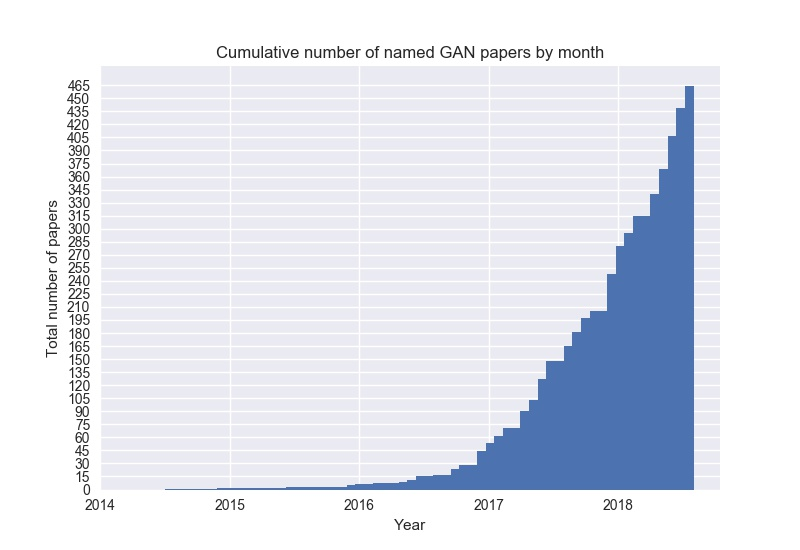
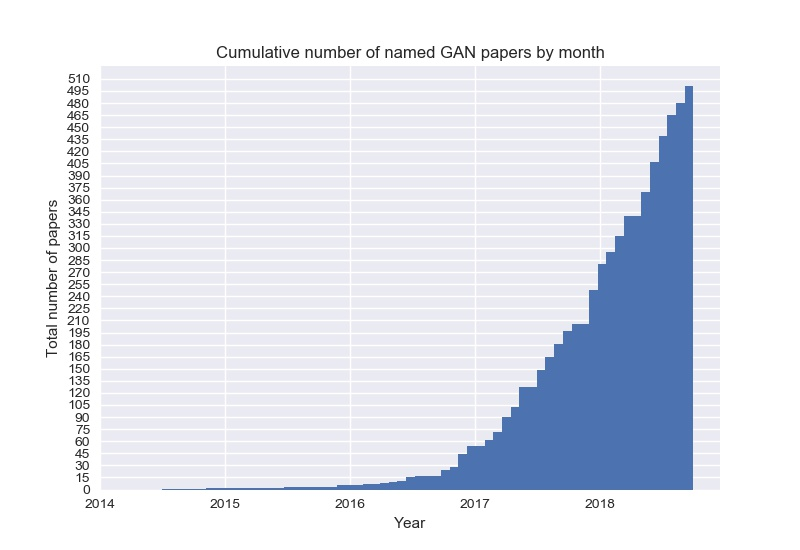
Update GANs till Sept end

diff --git a/README.md b/README.md
@@ -22,15 +22,18 @@ Check out [Deep Hunt](https://deephunt.in) - my weekly AI newsletter for this re
 * AC-GAN - [Conditional Image Synthesis With Auxiliary Classifier GANs](https://arxiv.org/abs/1610.09585) 
 * acGAN - [Face Aging With Conditional Generative Adversarial Networks](https://arxiv.org/abs/1702.01983) 
 * ACGAN - [Coverless Information Hiding Based on Generative adversarial networks](https://arxiv.org/abs/1712.06951) 
+* acGAN - [On-line Adaptative Curriculum Learning for GANs](https://arxiv.org/abs/1808.00020) 
 * ACtuAL - [ACtuAL: Actor-Critic Under Adversarial Learning](https://arxiv.org/abs/1711.04755) 
 * AdaGAN - [AdaGAN: Boosting Generative Models](https://arxiv.org/abs/1701.02386v1) 
 * Adaptive GAN - [Customizing an Adversarial Example Generator with Class-Conditional GANs](https://arxiv.org/abs/1806.10496) 
 * AdvEntuRe - [AdvEntuRe: Adversarial Training for Textual Entailment with Knowledge-Guided Examples](https://arxiv.org/abs/1805.04680) 
 * AdvGAN - [Generating adversarial examples with adversarial networks](https://arxiv.org/abs/1801.02610) 
 * AE-GAN - [AE-GAN: adversarial eliminating with GAN](https://arxiv.org/abs/1707.05474) 
+* AE-OT - [Latent Space Optimal Transport for Generative Models](https://arxiv.org/abs/1809.05964) 
 * AEGAN - [Learning Inverse Mapping by Autoencoder based Generative Adversarial Nets](https://arxiv.org/abs/1703.10094) 
 * AF-DCGAN - [AF-DCGAN: Amplitude Feature Deep Convolutional GAN for Fingerprint Construction in Indoor Localization System](https://arxiv.org/abs/1804.05347) 
 * AffGAN - [Amortised MAP Inference for Image Super-resolution](https://arxiv.org/abs/1610.04490) 
+* AIM - [Generating Informative and Diverse Conversational Responses via Adversarial Information Maximization](https://arxiv.org/abs/1809.05972) 
 * AL-CGAN - [Learning to Generate Images of Outdoor Scenes from Attributes and Semantic Layouts](https://arxiv.org/abs/1612.00215) 
 * ALI - [Adversarially Learned Inference](https://arxiv.org/abs/1606.00704) ([github](https://github.com/IshmaelBelghazi/ALI))
 * AlignGAN - [AlignGAN: Learning to Align Cross-Domain Images with Conditional Generative Adversarial Networks](https://arxiv.org/abs/1707.01400) 
@@ -60,14 +63,19 @@ Check out [Deep Hunt](https://deephunt.in) - my weekly AI newsletter for this re
 * BCGAN - [Bidirectional Conditional Generative Adversarial networks](https://arxiv.org/abs/1711.07461) 
 * BEAM - [Boltzmann Encoded Adversarial Machines](https://arxiv.org/abs/1804.08682) 
 * BEGAN - [BEGAN: Boundary Equilibrium Generative Adversarial Networks](https://arxiv.org/abs/1703.10717) 
+* BEGAN-CS - [Escaping from Collapsing Modes in a Constrained Space](https://arxiv.org/abs/1808.07258) 
+* Bellman GAN - [Distributional Multivariate Policy Evaluation and Exploration with the Bellman GAN](https://arxiv.org/abs/1808.01960) 
 * BGAN - [Binary Generative Adversarial Networks for Image Retrieval](https://arxiv.org/abs/1708.04150) ([github](https://github.com/htconquer/BGAN))
+* Bi-GAN - [Autonomously and Simultaneously Refining Deep Neural Network Parameters by a Bi-Generative Adversarial Network Aided Genetic Algorithm](https://arxiv.org/abs/1809.10244) 
 * BicycleGAN - [Toward Multimodal Image-to-Image Translation](https://arxiv.org/abs/1711.11586) ([github](https://github.com/junyanz/BicycleGAN))
 * BiGAN - [Adversarial Feature Learning](https://arxiv.org/abs/1605.09782v7) 
 * BinGAN - [BinGAN: Learning Compact Binary Descriptors with a Regularized GAN](https://arxiv.org/abs/1806.06778) 
 * BourGAN - [BourGAN: Generative Networks with Metric Embeddings](https://arxiv.org/abs/1805.07674) 
 * BranchGAN - [Branched Generative Adversarial Networks for Multi-Scale Image Manifold Learning](https://arxiv.org/abs/1803.08467) 
 * BRE - [Improving GAN Training via Binarized Representation Entropy (BRE) Regularization](https://arxiv.org/abs/1805.03644) ([github](https://github.com/BorealisAI/bre-gan))
+* BridgeGAN - [Generative Adversarial Frontal View to Bird View Synthesis](https://arxiv.org/abs/1808.00327) 
 * BS-GAN - [Boundary-Seeking Generative Adversarial Networks](https://arxiv.org/abs/1702.08431v1) 
+* BubGAN - [BubGAN: Bubble Generative Adversarial Networks for Synthesizing Realistic Bubbly Flow Images](https://arxiv.org/abs/1809.02266) 
 * BWGAN - [Banach Wasserstein GAN](https://arxiv.org/abs/1806.06621) 
 * C-GAN  - [Face Aging with Contextual Generative Adversarial Nets ](https://arxiv.org/abs/1802.00237 ) 
 * C-RNN-GAN - [C-RNN-GAN: Continuous recurrent neural networks with adversarial training](https://arxiv.org/abs/1611.09904) ([github](https://github.com/olofmogren/c-rnn-gan/))
@@ -88,7 +96,9 @@ Check out [Deep Hunt](https://deephunt.in) - my weekly AI newsletter for this re
 * CGAN - [Controllable Generative Adversarial Network](https://arxiv.org/abs/1708.00598) 
 * Chekhov GAN - [An Online Learning Approach to Generative Adversarial Networks](https://arxiv.org/abs/1706.03269) 
 * ciGAN - [Conditional Infilling GANs for Data Augmentation in Mammogram Classification](https://arxiv.org/abs/1807.08093) 
+* CinCGAN - [Unsupervised Image Super-Resolution using Cycle-in-Cycle Generative Adversarial Networks](https://arxiv.org/abs/1809.00437) 
 * CipherGAN - [Unsupervised Cipher Cracking Using Discrete GANs](https://arxiv.org/abs/1801.04883) 
+* ClusterGAN - [ClusterGAN : Latent Space Clustering in Generative Adversarial Networks](https://arxiv.org/abs/1809.03627) 
 * CM-GAN - [CM-GANs: Cross-modal Generative Adversarial Networks for Common Representation Learning](https://arxiv.org/abs/1710.05106) 
 * CoAtt-GAN - [Are You Talking to Me? Reasoned Visual Dialog Generation through Adversarial Learning](https://arxiv.org/abs/1711.07613) 
 * CoGAN - [Coupled Generative Adversarial Networks](https://arxiv.org/abs/1606.07536v2) 
@@ -115,12 +125,14 @@ Check out [Deep Hunt](https://deephunt.in) - my weekly AI newsletter for this re
 * D2GAN - [Dual Discriminator Generative Adversarial Nets](http://arxiv.org/abs/1709.03831) 
 * D2IA-GAN - [Tagging like Humans: Diverse and Distinct Image Annotation](https://arxiv.org/abs/1804.00113) 
 * DA-GAN  - [DA-GAN: Instance-level Image Translation by Deep Attention Generative Adversarial Networks (with Supplementary Materials)](http://arxiv.org/abs/1802.06454) 
+* DADA - [DADA: Deep Adversarial Data Augmentation for Extremely Low Data Regime Classification](https://arxiv.org/abs/1809.00981) 
 * DAGAN - [Data Augmentation Generative Adversarial Networks](https://arxiv.org/abs/1711.04340) 
 * DAN - [Distributional Adversarial Networks](https://arxiv.org/abs/1706.09549) 
 * DBLRGAN - [Adversarial Spatio-Temporal Learning for Video Deblurring](https://arxiv.org/abs/1804.00533) 
 * DCGAN - [Unsupervised Representation Learning with Deep Convolutional Generative Adversarial Networks](https://arxiv.org/abs/1511.06434) ([github](https://github.com/Newmu/dcgan_code))
 * DE-GAN - [Generative Adversarial Networks with Decoder-Encoder Output Noise](https://arxiv.org/abs/1807.03923) 
 * DeblurGAN - [DeblurGAN: Blind Motion Deblurring Using Conditional Adversarial Networks](https://arxiv.org/abs/1711.07064) ([github](https://github.com/KupynOrest/DeblurGAN))
+* DeepFD - [Learning to Detect Fake Face Images in the Wild](https://arxiv.org/abs/1809.08754) 
 * Defense-GAN - [Defense-GAN: Protecting Classifiers Against Adversarial Attacks Using Generative Models ](https://arxiv.org/abs/1805.06605 ) ([github](https://github.com/kabkabm/defensegan))
 * Defo-Net - [Defo-Net: Learning Body Deformation using Generative Adversarial Networks](https://arxiv.org/abs/1804.05928) 
 * DeliGAN - [DeLiGAN : Generative Adversarial Networks for Diverse and Limited Data](https://arxiv.org/abs/1706.02071) ([github](https://github.com/val-iisc/deligan))
@@ -131,6 +143,7 @@ Check out [Deep Hunt](https://deephunt.in) - my weekly AI newsletter for this re
 * DM-GAN - [Dual Motion GAN for Future-Flow Embedded Video Prediction](https://arxiv.org/abs/1708.00284) 
 * DMGAN - [Disconnected Manifold Learning for Generative Adversarial Networks](https://arxiv.org/abs/1806.00880) 
 * DNA-GAN - [DNA-GAN: Learning Disentangled Representations from Multi-Attribute Images](https://arxiv.org/abs/1711.05415) 
+* DOPING - [DOPING: Generative Data Augmentation for Unsupervised Anomaly Detection with GAN](https://arxiv.org/abs/1808.07632) 
 * dp-GAN - [Differentially Private Releasing via Deep Generative Model](https://arxiv.org/abs/1801.01594) 
 * DP-GAN - [DP-GAN: Diversity-Promoting Generative Adversarial Network for Generating Informative and Diversified Text ](https://arxiv.org/abs/1802.01345 ) 
 * DPGAN  - [Differentially Private Generative Adversarial Network ](http://arxiv.org/abs/1802.06739) 
@@ -157,6 +170,7 @@ Check out [Deep Hunt](https://deephunt.in) - my weekly AI newsletter for this re
 * EL-GAN - [EL-GAN: Embedding Loss Driven Generative Adversarial Networks for Lane Detection](https://arxiv.org/abs/1806.05525) 
 * ELEGANT - [ELEGANT: Exchanging Latent Encodings with GAN for Transferring Multiple Face Attributes](https://arxiv.org/abs/1803.10562) 
 * EnergyWGAN - [Energy-relaxed Wassertein GANs (EnergyWGAN): Towards More Stable and High Resolution Image Generation](https://arxiv.org/abs/1712.01026) 
+* ESRGAN - [ESRGAN: Enhanced Super-Resolution Generative Adversarial Networks](https://arxiv.org/abs/1809.00219) 
 * ExGAN - [Eye In-Painting with Exemplar Generative Adversarial Networks](https://arxiv.org/abs/1712.03999) 
 * ExposureGAN - [Exposure: A White-Box Photo Post-Processing Framework](https://arxiv.org/abs/1709.09602) ([github](https://github.com/yuanming-hu/exposure))
 * ExprGAN - [ExprGAN: Facial Expression Editing with Controllable Expression Intensity](https://arxiv.org/abs/1709.03842) 
@@ -190,7 +204,9 @@ Check out [Deep Hunt](https://deephunt.in) - my weekly AI newsletter for this re
 * GAIN  - [GAIN: Missing Data Imputation using Generative Adversarial Nets](https://arxiv.org/abs/1806.02920) 
 * GAMN - [Generative Adversarial Mapping Networks](https://arxiv.org/abs/1709.09820) 
 * GAN - [Generative Adversarial Networks](https://arxiv.org/abs/1406.2661) ([github](https://github.com/goodfeli/adversarial))
+* GAN Lab - [GAN Lab: Understanding Complex Deep Generative Models using Interactive Visual Experimentation](https://arxiv.org/abs/1809.01587) 
 * GAN Q-learning - [GAN Q-learning](https://arxiv.org/abs/1805.04874) 
+* GAN-AD - [Anomaly Detection with Generative Adversarial Networks for Multivariate Time Series](https://arxiv.org/abs/1809.04758) 
 * GAN-ATV - [A Novel Approach to Artistic Textual Visualization via GAN](https://arxiv.org/abs/1710.10553) 
 * GAN-CLS - [Generative Adversarial Text to Image Synthesis](https://arxiv.org/abs/1605.05396) ([github](https://github.com/reedscot/icml2016))
 * GAN-RS - [Towards Qualitative Advancement of Underwater Machine Vision with Generative Adversarial Networks](https://arxiv.org/abs/1712.00736) 
@@ -204,15 +220,19 @@ Check out [Deep Hunt](https://deephunt.in) - my weekly AI newsletter for this re
 * GANG - [GANGs: Generative Adversarial Network Games](https://arxiv.org/abs/1712.00679) 
 * GANG - [Beyond Local Nash Equilibria for Adversarial Networks](https://arxiv.org/abs/1806.07268) 
 * GANosaic - [GANosaic: Mosaic Creation with Generative Texture Manifolds](https://arxiv.org/abs/1712.00269) 
+* GANVO - [GANVO: Unsupervised Deep Monocular Visual Odometry and Depth Estimation with Generative Adversarial Networks](https://arxiv.org/abs/1809.05786) 
 * GAP - [Context-Aware Generative Adversarial Privacy](https://arxiv.org/abs/1710.09549) 
 * GAP - [Generative Adversarial Privacy](https://arxiv.org/abs/1807.05306) 
 * GATS - [Sample-Efficient Deep RL with Generative Adversarial Tree Search](https://arxiv.org/abs/1806.05780) 
 * GAWWN - [Learning What and Where to Draw](https://arxiv.org/abs/1610.02454) ([github](https://github.com/reedscot/nips2016))
 * GC-GAN - [Geometry-Contrastive Generative Adversarial Network for Facial Expression Synthesis](https://arxiv.org/abs/1802.01822 ) 
+* GcGAN - [Geometry-Consistent Adversarial Networks for One-Sided Unsupervised Domain Mapping](https://arxiv.org/abs/1809.05852) 
 * GeneGAN - [GeneGAN: Learning Object Transfiguration and Attribute Subspace from Unpaired Data](https://arxiv.org/abs/1705.04932) ([github](https://github.com/Prinsphield/GeneGAN))
 * GeoGAN - [Generating Instance Segmentation Annotation by Geometry-guided GAN ](https://arxiv.org/abs/1801.08839 ) 
 * Geometric GAN - [Geometric GAN](https://arxiv.org/abs/1705.02894) 
+* GIN - [Generative Invertible Networks (GIN): Pathophysiology-Interpretable Feature Mapping and Virtual Patient Generation](https://arxiv.org/abs/1808.04495) 
 * GLCA-GAN - [Global and Local Consistent Age Generative Adversarial Networks ](https://arxiv.org/abs/1801.08390) 
+* GM-GAN - [Gaussian Mixture Generative Adversarial Networks for Diverse Datasets, and the Unsupervised Clustering of Images](https://arxiv.org/abs/1808.10356) 
 * GMAN - [Generative Multi-Adversarial Networks](http://arxiv.org/abs/1611.01673) 
 * GMM-GAN - [Towards Understanding the Dynamics of Generative Adversarial Networks](https://arxiv.org/abs/1706.09884) 
 * GoGAN - [Gang of GANs: Generative Adversarial Networks with Maximum Margin Ranking](https://arxiv.org/abs/1704.04865) 
@@ -222,6 +242,7 @@ Check out [Deep Hunt](https://deephunt.in) - my weekly AI newsletter for this re
 * GPU - [A generative adversarial framework for positive-unlabeled classification](https://arxiv.org/abs/1711.08054) 
 * GRAN - [Generating images with recurrent adversarial networks](https://arxiv.org/abs/1602.05110) ([github](https://github.com/jiwoongim/GRAN))
 * Graphical-GAN - [Graphical Generative Adversarial Networks](https://arxiv.org/abs/1804.03429) 
+* GraphSGAN - [Semi-supervised Learning on Graphs with Generative Adversarial Nets](https://arxiv.org/abs/1809.00130) 
 * GraspGAN - [Using Simulation and Domain Adaptation to Improve Efficiency of Deep Robotic Grasping](https://arxiv.org/abs/1709.07857) 
 * GT-GAN - [Deep Graph Translation](https://arxiv.org/abs/1805.09980) 
 * HAN - [Chinese Typeface Transformation with Hierarchical Adversarial Network](https://arxiv.org/abs/1711.06448) 
@@ -236,6 +257,7 @@ Check out [Deep Hunt](https://deephunt.in) - my weekly AI newsletter for this re
 * IdCycleGAN - [Face Translation between Images and Videos using Identity-aware CycleGAN](https://arxiv.org/abs/1712.00971) 
 * IFcVAEGAN - [Conditional Autoencoders with Adversarial Information Factorization](https://arxiv.org/abs/1711.05175) 
 * iGAN - [Generative Visual Manipulation on the Natural Image Manifold](https://arxiv.org/abs/1609.03552v2) ([github](https://github.com/junyanz/iGAN))
+* IGMM-GAN - [Coupled IGMM-GANs for deep multimodal anomaly detection in human mobility data](https://arxiv.org/abs/1809.02728) 
 * Improved GAN - [Improved Techniques for Training GANs](https://arxiv.org/abs/1606.03498) ([github](https://github.com/openai/improved-gan))
 * In2I - [In2I : Unsupervised Multi-Image-to-Image Translation Using Generative Adversarial Networks](https://arxiv.org/abs/1711.09334) 
 * InfoGAN - [InfoGAN: Interpretable Representation Learning by Information Maximizing Generative Adversarial Nets](https://arxiv.org/abs/1606.03657v1) ([github](https://github.com/openai/InfoGAN))
@@ -244,6 +266,7 @@ Check out [Deep Hunt](https://deephunt.in) - my weekly AI newsletter for this re
 * IRGAN - [IRGAN: A Minimax Game for Unifying Generative and Discriminative Information Retrieval models](https://arxiv.org/abs/1705.10513v1) 
 * IRGAN - [Generative Adversarial Nets for Information Retrieval: Fundamentals and Advances](https://arxiv.org/abs/1806.03577) 
 * ISGAN - [Invisible Steganography via Generative Adversarial Network](https://arxiv.org/abs/1807.08571) 
+* ISP-GPM - [Inner Space Preserving Generative Pose Machine](https://arxiv.org/abs/1808.02104) 
 * Iterative-GAN - [Two Birds with One Stone: Iteratively Learn Facial Attributes with GANs](https://arxiv.org/abs/1711.06078) ([github](https://github.com/punkcure/Iterative-GAN))
 * IterGAN - [IterGANs: Iterative GANs to Learn and Control 3D Object Transformation](https://arxiv.org/abs/1804.05651) 
 * IVE-GAN - [IVE-GAN: Invariant Encoding Generative Adversarial Networks](https://arxiv.org/abs/1711.08646) 
@@ -288,10 +311,12 @@ Check out [Deep Hunt](https://deephunt.in) - my weekly AI newsletter for this re
 * MEGAN - [MEGAN: Mixture of Experts of Generative Adversarial Networks for Multimodal Image Generation](https://arxiv.org/abs/1805.02481) 
 * MelanoGAN - [MelanoGANs: High Resolution Skin Lesion Synthesis with GANs](https://arxiv.org/abs/1804.04338) 
 * memoryGAN - [Memorization Precedes Generation: Learning Unsupervised GANs with Memory Networks](https://arxiv.org/abs/1803.01500) 
+* MeRGAN - [Memory Replay GANs: learning to generate images from new categories without forgetting](https://arxiv.org/abs/1809.02058) 
 * MGAN - [Precomputed Real-Time Texture Synthesis with Markovian Generative Adversarial Networks](https://arxiv.org/abs/1604.04382) ([github](https://github.com/chuanli11/MGANs))
 * MGGAN - [Multi-Generator Generative Adversarial Nets](https://arxiv.org/abs/1708.02556) 
 * MGGAN - [MGGAN: Solving Mode Collapse using Manifold Guided Training](https://arxiv.org/abs/1804.04391) 
 * MIL-GAN - [Multimodal Storytelling via Generative Adversarial Imitation Learning](https://arxiv.org/abs/1712.01455) 
+* MinLGAN - [Anomaly Detection via Minimum Likelihood Generative Adversarial Networks](https://arxiv.org/abs/1808.00200) 
 * MIX+GAN - [Generalization and Equilibrium in Generative Adversarial Nets (GANs)](https://arxiv.org/abs/1703.00573v3) 
 * MIXGAN - [MIXGAN: Learning Concepts from Different Domains for Mixture Generation](https://arxiv.org/abs/1807.01659) 
 * MLGAN - [Metric Learning-based Generative Adversarial Network](https://arxiv.org/abs/1711.02792) 
@@ -350,6 +375,7 @@ Check out [Deep Hunt](https://deephunt.in) - my weekly AI newsletter for this re
 * RankGAN - [Adversarial Ranking for Language Generation ](https://arxiv.org/abs/1705.11001) 
 * RCGAN - [Real-valued (Medical) Time Series Generation with Recurrent Conditional GANs](https://arxiv.org/abs/1706.02633) 
 * ReConNN - [Reconstruction of Simulation-Based Physical Field with Limited Samples by Reconstruction Neural Network](https://arxiv.org/abs/1805.00528) 
+* Recycle-GAN - [Recycle-GAN: Unsupervised Video Retargeting](https://arxiv.org/abs/1808.05174) 
 * RefineGAN - [Compressed Sensing MRI Reconstruction with Cyclic Loss in Generative Adversarial Networks](https://arxiv.org/abs/1709.00753) 
 * ReGAN - [ReGAN: RE[LAX|BAR|INFORCE] based Sequence Generation using GANs](https://arxiv.org/abs/1805.02788) ([github](https://github.com/TalkToTheGAN/REGAN))
 * RegCGAN - [Unpaired Multi-Domain Image Generation via Regularized Conditional GANs](https://arxiv.org/abs/1805.02456) 
@@ -365,9 +391,11 @@ Check out [Deep Hunt](https://deephunt.in) - my weekly AI newsletter for this re
 * SAGA - [Generative Adversarial Learning for Spectrum Sensing](https://arxiv.org/abs/1804.00709) 
 * SAGAN - [Self-Attention Generative Adversarial Networks](https://arxiv.org/abs/1805.08318) 
 * SalGAN - [SalGAN: Visual Saliency Prediction with Generative Adversarial Networks](https://arxiv.org/abs/1701.01081) ([github](https://github.com/imatge-upc/saliency-salgan-2017))
+* SAM - [Sample-Efficient Imitation Learning via Generative Adversarial Nets](https://arxiv.org/abs/1809.02064) 
 * sAOG - [Deep Structured Generative Models](https://arxiv.org/abs/1807.03877) 
 * SAR-GAN - [Generating High Quality Visible Images from SAR Images Using CNNs](https://arxiv.org/abs/1802.10036) 
 * SBADA-GAN - [From source to target and back: symmetric bi-directional adaptive GAN](https://arxiv.org/abs/1705.08824) 
+* ScarGAN - [ScarGAN: Chained Generative Adversarial Networks to Simulate Pathological Tissue on Cardiovascular MR Scans](https://arxiv.org/abs/1808.04500) 
 * SCH-GAN - [SCH-GAN: Semi-supervised Cross-modal Hashing by Generative Adversarial Network ](https://arxiv.org/abs/1802.02488 ) 
 * SD-GAN - [Semantically Decomposing the Latent Spaces of Generative Adversarial Networks](https://arxiv.org/abs/1705.07904) 
 * Sdf-GAN - [Sdf-GAN: Semi-supervised Depth Fusion with Multi-scale Adversarial Networks](https://arxiv.org/abs/1803.06657) 
@@ -385,13 +413,16 @@ Check out [Deep Hunt](https://deephunt.in) - my weekly AI newsletter for this re
 * SGAN - [SGAN: An Alternative Training of Generative Adversarial Networks](https://arxiv.org/abs/1712.02330) 
 * SGAN - [CT Image Enhancement Using Stacked Generative Adversarial Networks and Transfer Learning for Lesion Segmentation Improvement](https://arxiv.org/abs/1807.07144) 
 * sGAN  - [Generative Adversarial Training for MRA Image Synthesis Using Multi-Contrast MRI](https://arxiv.org/abs/1804.04366) 
+* SiftingGAN - [SiftingGAN: Generating and Sifting Labeled Samples to Improve the Remote Sensing Image Scene Classification Baseline in vitro](https://arxiv.org/abs/1809.04985) 
 * SiGAN - [SiGAN: Siamese Generative Adversarial Network for Identity-Preserving Face Hallucination](https://arxiv.org/abs/1807.08370) 
 * SimGAN - [Learning from Simulated and Unsupervised Images through Adversarial Training](https://arxiv.org/abs/1612.07828) 
 * SisGAN - [Semantic Image Synthesis via Adversarial Learning](https://arxiv.org/abs/1707.06873) 
 * Sketcher-Refiner GAN - [Learning Myelin Content in Multiple Sclerosis from Multimodal MRI through Adversarial Training](https://arxiv.org/abs/1804.08039) 
 * SketchGAN - [Adversarial Training For Sketch Retrieval](https://arxiv.org/abs/1607.02748) 
 * SketchyGAN - [SketchyGAN: Towards Diverse and Realistic Sketch to Image Synthesis](https://arxiv.org/abs/1801.02753) 
+* Skip-Thought GAN - [Generating Text through Adversarial Training using Skip-Thought Vectors](https://arxiv.org/abs/1808.08703) 
 * SL-GAN - [Semi-Latent GAN: Learning to generate and modify facial images from attributes](https://arxiv.org/abs/1704.02166) 
+* SLSR - [Sparse Label Smoothing for Semi-supervised Person Re-Identification](https://arxiv.org/abs/1809.04976) 
 * SN-DCGAN - [Generative Adversarial Networks for Unsupervised Object Co-localization](https://arxiv.org/abs/1806.00236) 
 * SN-GAN - [Spectral Normalization for Generative Adversarial Networks](https://drive.google.com/file/d/0B8HZ50DPgR3eSVV6YlF3XzQxSjQ/view) ([github](https://github.com/pfnet-research/chainer-gan-lib))
 * SN-PatchGAN - [Free-Form Image Inpainting with Gated Convolution](https://arxiv.org/abs/1806.03589) 
@@ -417,11 +448,13 @@ Check out [Deep Hunt](https://deephunt.in) - my weekly AI newsletter for this re
 * StarGAN - [StarGAN: Unified Generative Adversarial Networks for Multi-Domain Image-to-Image Translation](https://arxiv.org/abs/1711.09020) ([github](https://github.com/yunjey/StarGAN))
 * StarGAN-VC - [StarGAN-VC: Non-parallel many-to-many voice conversion with star generative adversarial networks ](https://arxiv.org/abs/1806.02169) 
 * SteinGAN - [Learning Deep Energy Models: Contrastive Divergence vs. Amortized MLE](https://arxiv.org/abs/1707.00797) 
+* StepGAN - [Improving Conditional Sequence Generative Adversarial Networks by Stepwise Evaluation](https://arxiv.org/abs/1808.05599) 
 * Super-FAN - [Super-FAN: Integrated facial landmark localization and super-resolution of real-world low resolution faces in arbitrary poses with GANs](https://arxiv.org/abs/1712.02765) 
 * SVSGAN - [SVSGAN: Singing Voice Separation via Generative Adversarial Network](https://arxiv.org/abs/1710.11428) 
 * SWGAN - [Solving Approximate Wasserstein GANs to Stationarity](https://arxiv.org/abs/1802.08249) 
 * SyncGAN - [SyncGAN: Synchronize the Latent Space of Cross-modal Generative Adversarial Networks](https://arxiv.org/abs/1804.00410) 
 * S^2GAN - [Generative Image Modeling using Style and Structure Adversarial Networks](https://arxiv.org/abs/1603.05631v2) 
+* T2Net - [T2Net: Synthetic-to-Realistic Translation for Solving Single-Image Depth Estimation Tasks](https://arxiv.org/abs/1808.01454) 
 * table-GAN - [Data Synthesis based on Generative Adversarial Networks](https://arxiv.org/abs/1806.03384) 
 * TAC-GAN - [TAC-GAN - Text Conditioned Auxiliary Classifier Generative Adversarial Network](https://arxiv.org/abs/1703.06412v2) ([github](https://github.com/dashayushman/TAC-GAN))
 * TAN - [Outline Colorization through Tandem Adversarial Networks](https://arxiv.org/abs/1704.08834) 
@@ -439,9 +472,11 @@ Check out [Deep Hunt](https://deephunt.in) - my weekly AI newsletter for this re
 * TGANs-C - [To Create What You Tell: Generating Videos from Captions](https://arxiv.org/abs/1804.08264) 
 * tiny-GAN - [Analysis of Nonautonomous Adversarial Systems](https://arxiv.org/abs/1803.05045) 
 * TP-GAN - [Beyond Face Rotation: Global and Local Perception GAN for Photorealistic and Identity Preserving Frontal View Synthesis](https://arxiv.org/abs/1704.04086) 
+* TreeGAN - [TreeGAN: Syntax-Aware Sequence Generation with Generative Adversarial Networks](https://arxiv.org/abs/1808.07582) 
 * Triple-GAN - [Triple Generative Adversarial Nets](https://arxiv.org/abs/1703.02291v2) 
 * tripletGAN - [TripletGAN: Training Generative Model with Triplet Loss](https://arxiv.org/abs/1711.05084) 
 * TV-GAN - [TV-GAN: Generative Adversarial Network Based Thermal to Visible Face Recognition](https://arxiv.org/abs/1712.02514) 
+* Twin-GAN - [Twin-GAN -- Unpaired Cross-Domain Image Translation with Weight-Sharing GANs](https://arxiv.org/abs/1809.00946) 
 * UGACH - [Unsupervised Generative Adversarial Cross-modal Hashing](https://arxiv.org/abs/1712.00358) 
 * UGAN - [Enhancing Underwater Imagery using Generative Adversarial Networks](https://arxiv.org/abs/1801.04011) 
 * Unim2im - [Unsupervised Image-to-Image Translation with Generative Adversarial Networks ](https://arxiv.org/abs/1701.02676) ([github](http://github.com/zsdonghao/Unsup-Im2Im))
@@ -465,12 +500,14 @@ Check out [Deep Hunt](https://deephunt.in) - my weekly AI newsletter for this re
 * VRAL - [Variance Regularizing Adversarial Learning](https://arxiv.org/abs/1707.00309) 
 * WaterGAN - [WaterGAN: Unsupervised Generative Network to Enable Real-time Color Correction of Monocular Underwater Images](https://arxiv.org/abs/1702.07392v1) 
 * WaveGAN - [Synthesizing Audio with Generative Adversarial Networks ](https://arxiv.org/abs/1802.04208) 
+* WaveletGLCA-GAN - [Global and Local Consistent Wavelet-domain Age Synthesis](https://arxiv.org/abs/1809.07764) 
 * weGAN - [Generative Adversarial Nets for Multiple Text Corpora](https://arxiv.org/abs/1712.09127) 
 * WGAN - [Wasserstein GAN](https://arxiv.org/abs/1701.07875v2) ([github](https://github.com/martinarjovsky/WassersteinGAN))
 * WGAN-CLS - [Text to Image Synthesis Using Generative Adversarial Networks](https://arxiv.org/abs/1805.00676) 
 * WGAN-GP - [Improved Training of Wasserstein GANs](https://arxiv.org/abs/1704.00028) ([github](https://github.com/igul222/improved_wgan_training))
 * WGAN-L1 - [Subsampled Turbulence Removal Network](https://arxiv.org/abs/1807.04418) 
 * WS-GAN - [Weakly Supervised Generative Adversarial Networks for 3D Reconstruction ](https://arxiv.org/abs/1705.10904) 
+* X-GANs - [X-GANs: Image Reconstruction Made Easy for Extreme Cases](https://arxiv.org/abs/1808.04432) 
 * XGAN - [XGAN: Unsupervised Image-to-Image Translation for many-to-many Mappings](https://arxiv.org/abs/1711.05139) 
 * ZipNet-GAN - [ZipNet-GAN: Inferring Fine-grained Mobile Traffic Patterns via a Generative Adversarial Neural Network](https://arxiv.org/abs/1711.02413) 
 * α-GAN - [Variational Approaches for Auto-Encoding Generative Adversarial Networks](https://arxiv.org/abs/1706.04987) ([github](https://github.com/victor-shepardson/alpha-GAN))
